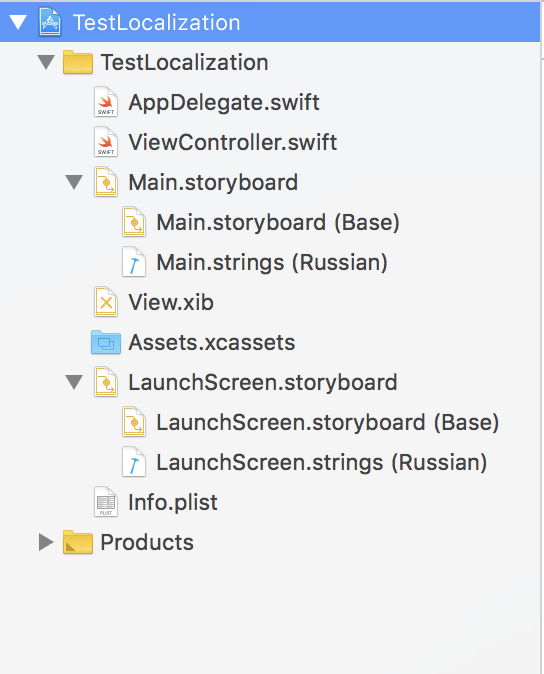
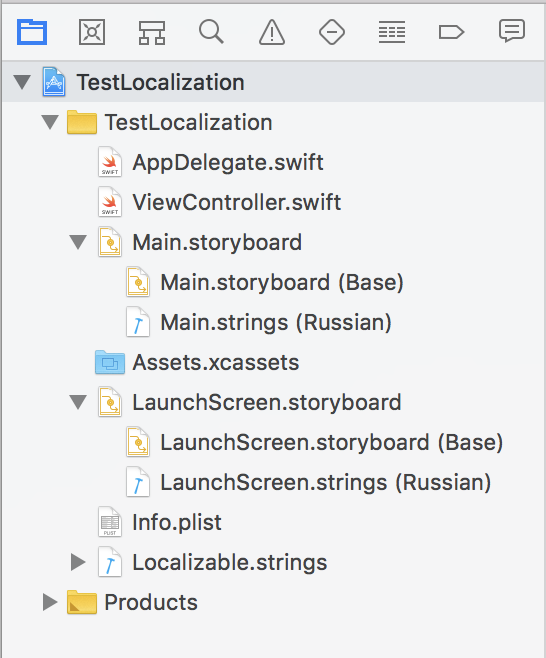
article part 1

Changed region(s): [[0.0, 0.0, 1.0, 1.0]]

diff --git a/Часть_1.md b/Часть_1.md
@@ -1,0 +1,388 @@
+#**Локализация приложений в iOS**
+##**Часть 1. Что мы имеем?** 
+***Руководство по работе с локализированными строковыми ресурсами***
+###**Введение**
+Несколько лет назад я окунулся в волшебный мир iOS разработки, который всей своей сутью сулил мне счастливое будущее в сфере IT. Однако углубляясь в особенности  платформы и среды разработки, я столкнулся со многими сложностями и неудобствами в решении, казалось бы, весьма тривиальных задач: «инновационный консерватизм» Apple порой заставляет разработчиков сильно изощряться, дабы удовлетворить необузданное «ХОЧУ» заказчика.
+
+Одной из таких проблем является вопрос локализации строковых ресурсов приложения. Именно этой проблеме мне хотелось бы посвятить несколько своих первых публикаций на просторах Хабра. 
+
+Изначально я рассчитывал уместить свои мысли в одной статье, но объем той  информации, которую хотелось бы изложить, оказался достаточно большим. В этой статье я попытаюсь раскрыть суть стандартных механизмов работы с локализованными ресурсами с акцентом на некоторые аспекты, которыми пренебрегают большинство гайдов и туториалов. Материал ориентирован прежде всего на начинающих разработчиков (или тех, кто с такими задачами не сталкивался). Для опытных девелоперов данная информация может не нести особо ценности. А вот о неудобствах и недостатках, с которыми можно столкнуться на практике, я расскажу в дальнейшем...
+
+###**Из-под коробки. Как организовано хранение строковых ресурсов в iOS-приложениях**
+
+Для начала отметим, что наличие в платформе механизмов локализации уже является огромным плюсом, т.к. избавляет программиста от дополнительной разработки и задает единый формат работы с данными. Да и зачастую, базовых механизмов хватает для реализации относительно небольших проектов.
+
+И так, какие же возможности предоставляет нам Xcode "из-под коробки"? Для начала давайте разберемся со стандартом хранения строковых ресурсов в проекте.
+
+В проектах со статическим контентом, строковые данные вполне можно хранить непосредственно в интерфейсе (файлах разметки *`.storyboard`* и *`.xib`*, которые в свою очередь являются XML-файлами визуализируемыми по средствам *Interface Builder*) или в коде. Первый подход позволяет упростить и ускорить процесс разметки экранов и отдельных отображений, т.к. разработчик может наблюдать большинство изменении без сборки приложения. Однако в этом случае не сложно нарваться на избыточности данных (если один и тот же текст используется несколькими элементами, отображениями). Второй подход как раз избавляет от проблемы избыточности данных, но приводит к необходимости заполнять экраны вручную (путем установления дополнительных *`IBOutlet`*-ов и присвоения им соответственных текстовых значений), что в свою очередь приводит к избыточности кода (разумеется, кроме тех случаев, когда текст должен устанавливаться непосредственно кодом приложения).
+
+Помимо этого Apple предоставляет стандарт файлов с расширением *`.strings`*. Данный стандарт регламентирует формат хранения строковых данных в виде ассоциативного массива (`"ключ-значение"`):
+```
+"key" = "value";
+```
+Ключ чувствителен к регистру символов, допускает использование пробелов, подчеркиваний, знаков пунктуации и специальных символов. 
+
+Важно заметить, что несмотря на незамысловатый синтаксис, *Strings*-файлы являются регулярным источников ошибок на этапе компиляции, сборки или эксплуатации приложения. Причин тому несколько. 
+
+Во-первых, ошибки в синтаксисе. Пропущенные точка с запятой, знак равенства, лишние или незаэкранированные кавычки неизбежно приведут к ошибке компилятора. Причем Xcode укажет на файл с ошибкой, но не подсветит строку, в которой что-то не так. Поиск такой опечатки может занять значительное время, особенно если файл содержит значительный объем данных.   
+
+Во-вторых, дублирование ключей. Приложение из-за него, конечно, не упадет, но пользователю могут быть отображены некорректные данные. Все дело в том, что при обращении к строке по ключу, подтягивается значение соответствующее последнему вхождению ключа в файле. 
+
+В итоге, простая конструкция требует от программиста значительной скрупулезности и внимательности при наполнении файлов данными. 
+
+~~Знающие~~ разработчики могут сразу воскликнуть: *"А как же JSON и PLIST? Чем они не угодили?"* Ну во-первых, *`JSON`* и *`PLIST`* (фактически, обыкновенный *`XML`*) являются универсальными стандартами, позволяющими хранить как строки, так и численные, логические (*`BOOL`*), бинарные данные, время и дату, а также коллекции - индексированные (*`Array`*) и ассоциативные (*`Dictionary`*) массивы. Соответственно, синтаксис этих стандартов более насыщен, а значит и накосячить в них проще. Во-вторых, скорость обработки таких файлов несколько ниже, чем Strings-файлов, опять же по причине более сложного синтаксиса. Это не говоря еще о том, что для работы с ними нужно провести целый ряд манипуляций в коде.
+
+
+
+###**Локализовали, локализовали, да не вылокализовали. Локализация пользовательского интерфейса**
+
+И так, со стандартами разобрались, разберемся теперь как это все использовать.
+
+Пойдем по-порядку. Для начала создадим простой *Single View Application* и в *Main.storyboard* на *ViewController* добавим несколько текстовых компонентов.
+
+<img src="https://github.com/nkopilovskii/NKLocalization/blob/master/article_resouces/part_1/loc_str_1.1.png?raw=true" width="50%" height="50%" align="justify">
+###
+Контент в данном случае хранится непосредственно в интерфейсе. Чтобы локализовать его необходимо сделать следующее:
+
+1)  Перейти в настройки проекта
+
+<img src="https://github.com/nkopilovskii/NKLocalization/blob/master/article_resouces/part_1/loc_str_1.2.png?raw=true" width="50%" height="50%" align="justify">
+###
+2)  Затем - из ***Target*** в ***Project***
+
+<img src="https://github.com/nkopilovskii/NKLocalization/blob/master/article_resouces/part_1/loc_str_1.3.png?raw=true" width="50%" height="50%" align="justify">
+###
+3)  Открыть вкладку ***Info***
+
+<img src="https://github.com/nkopilovskii/NKLocalization/blob/master/article_resouces/part_1/loc_str_1.4.png?raw=true" width="50%" height="50%" align="justify">
+###
+В пункте ***Localizations*** сразу видим, что у нас есть уже запись *"English - Development language"*. Это значит, что английский язык выставлен как язык разработки ( или по-умолчанию). 
+
+Давайте теперь добавим еще один язык. Для этого нажимаем "**+**" и выбираем необходимый язык (я для примера выбрал русский). Заботливый Xcode сразу предлагает нам выбрать, какие файлы необходимо локализовать для добавленного языка.
+
+<img src="https://github.com/nkopilovskii/NKLocalization/blob/master/article_resouces/part_1/loc_str_1.5.png?raw=true" width="50%" height="50%" align="justify">
+###
+Нажимаем **Finish**, смотрим, что получилось. В навигаторе по проекту возле выбранных файлов появились кнопки отображения вложенностей. Кликнув на них видим, что выбранные ранее файлы содержат в себе созданные файлы локализации.
+
+<img src="https://github.com/nkopilovskii/NKLocalization/blob/master/article_resouces/part_1/loc_str_1.6.png?raw=true" width="35%" height="35%" align="justify">
+### 
+К примеру,  ***`Main.storyboard (Base)`*** - это созданный по умолчанию файл разметки интерфейса на базовом языке разработки, а при формировании локализации к нему в пару был создан ассоциированный ***`Main.strings (Russian)`*** - файл строк для русской локализации. Открыв его можно увидеть следующее:
+
+```
+/* Class = "UILabel"; text = "Label"; ObjectID = "tQe-tG-eeo"; */
+"tQe-tG-eeo.text" = "Label";
+
+/* Class = "UITextField"; placeholder = "TextField"; ObjectID = "cpp-y2-Z0N"; */
+"cpp-y2-Z0N.placeholder" = "TextField";
+
+/* Class = "UIButton"; normalTitle = "Button"; ObjectID = "EKl-Rz-Dc2"; */
+"EKl-Rz-Dc2.normalTitle" = "Button";
+```
+
+Здесь, в целом, все просто, но все же для пущей ясности рассмотрим подробнее, обратив внимание на комментарии, сгенерированные заботливым Xcode-ом:  
+
+```
+/* Class = "UILabel"; text = "Label"; ObjectID = "tQe-tG-eeo"; */
+"tQe-tG-eeo.text" = "Label";
+```
+
+Вот экземпляр класса ***`UILabel`*** со значением ***`"Label"`*** для параметра ***`text`***. ***`ObjectID`*** - идентификатор объекта в файле разметки,- это уникальная строка, присваиваемая любому компоненту в момент его помещение на *`Storyboard/Xib`*. Именно из *`ObjectID`* и имени параметра объекта (в данном случае *`text`*) формируется ключ, а саму запись можно формально трактовать так:
+
+Параметру "text" объекта "tQe-tG-eeo" присвоить значение "Label".
+
+В данной записи изменению подлежит только "*значение*". Заменим "*Label*" на "*Надпись*".   Аналогично поступим и с другими объектами. 
+
+```
+/* Class = "UILabel"; text = "Label"; ObjectID = "tQe-tG-eeo"; */
+"tQe-tG-eeo.text" = "Надпись";
+/* Class = "UITextField"; placeholder = "TextField"; ObjectID = "cpp-y2-Z0N"; */
+"cpp-y2-Z0N.placeholder" = "Текстовое поле"; /* Class = "UIButton"; normalTitle = "Button"; ObjectID = "EKl-Rz-Dc2"; */
+"EKl-Rz-Dc2.normalTitle" = "Кнопка";
+```
+
+Запускаем наше приложение.
+
+<img src="https://github.com/nkopilovskii/NKLocalization/blob/master/article_resouces/part_1/loc_str_1.7.png?raw=true" width="50%" height="50%" align="justify">
+### 
+
+Но что же мы видим? Приложение использует базовую локализацию. Как же проверить правильно ли мы произвели перевод?
+
+Тут стоит сделать небольшое отступление и копнуть немного в сторону особенностей iOS платформы и структуры приложения.
+
+Для начала рассмотрим изменение структуры проекта в процессе добавления локализации. Вот так выглядит каталог проекта до добавления русской локализации: 
+
+<img src="https://github.com/nkopilovskii/NKLocalization/blob/master/article_resouces/part_1/loc_str_1.8.png?raw=true" width="50%" height="50%" align="justify">
+### 
+
+А вот так после:
+
+<img src="https://github.com/nkopilovskii/NKLocalization/blob/master/article_resouces/part_1/loc_str_1.9.png?raw=true" width="50%" height="50%" align="justify">
+### 
+
+Как мы видим, Xcode создал новый каталог *`ru.lproj`*, в которую поместил созданные локализованные строки. 
+
+<img src="https://github.com/nkopilovskii/NKLocalization/blob/master/article_resouces/part_1/loc_str_1.10.png?raw=true" width="50%" height="50%" align="justify">
+### 
+
+Причем тут структура Xcode проекта к готовому iOS приложению? А при том, что это помогает лучше понять особенности платформы, а также принципы распределения и хранения ресурсов непосредственно в готовом приложении. Суть в том, что при сборке Xcode проекта, помимо формирования исполнительного файла, среда переносит ресурсы (файлы разметки интерфейса *Storyboard/Xib*, изображения, файлы строк и прочее) в готовое приложение сохраняя иерархию заданную на этапе разработки. 
+
+Для работы с этой иерархией Apple предоставляет класс *`Bundle(NSBundle)`* ([вольный перевод](https://developer.apple.com/documentation/foundation/bundle?changes=_2)):
+
+>Apple использует **`Bundle`** для предоставления доступа к приложениям, фреймворкам, плагинам и многим другим типам контента. *`Bundle`*-ы организуют ресурсы в четко определенные подкаталоги, а структуры bundle-ов различаются в зависимости от платформы и типа. Используя *`bundle`*, вы можете получить доступ к ресурсам пакета, не зная его структуры. *`Bundle`* представляет собой единый интерфейс для поиска элементов, с учетом структуры пакета, потребностей пользователя, доступных локализаций и других соответствующих факторов. 
+>**Поиск и открытие ресурса**
+>Прежде чем начать работу с ресурсом, необходимо указать его *`bundle`*. Класс **`Bundle`** имеет множество конструкторов, но чаще всего используется **[main](https://developer.apple.com/documentation/foundation/bundle/1410786-main?changes=_2)**. *`Bundle.main`* предоставляет путь к каталогам, содержащим текущий исполняемый код. Таким образом, *`Bundle.main`* предоставляет доступ к ресурсам, используемым текущим приложением. 
+
+Рассмотрим структуру *`Bundle.main`* используя класс ***`FileManager`***:
+
+<img src="https://github.com/nkopilovskii/NKLocalization/blob/master/article_resouces/part_1/loc_str_1.12.png?raw=true" width="65%" height="65%" align="justify">
+### 
+
+Исходя из вышесказанного можем сделать вывод: при загрузке приложения формируется его *`Bundle.main`*, анализируется текущая локализация устройства (язык системы), локализации приложения и локализованные ресурсы. Затем приложение выбирает из всех доступных локализаций ту, которая соответствует текущему языку системы и подтягивает соответствующие локализованные ресурсы. Если же совпадений нет - используются ресурсы из каталога по умолчанию (в нашем случае английскую локализацию, т.к. английский язык был определен как язык разработки, и необходимостью дополнительной локализации ресурсов можно пренебречь). Если сменить язык устройства на русский и перезапустить приложение, то и интерфейс уже будет уже соответствовать русской локализации.
+
+<img src="https://github.com/nkopilovskii/NKLocalization/blob/master/article_resouces/part_1/loc_str_1.13.png?raw=true" width="50%" height="50%" align="justify">
+### 
+
+Но прежде чем закрыть тему локализации пользовательского интерфейса через *Interface Builder*, стоит отметить еще один примечательный способ. При создании файлов локализации (путем добавления нового языка в проект или в инспекторе локализованного файла) нетрудно заметить, что Xcode предоставляет возможность выбрать тип создаваемого файла: 
+
+<img src="https://github.com/nkopilovskii/NKLocalization/blob/master/article_resouces/part_1/loc_str_1.14.png?raw=true" width="35%" height="35%" align="justify">
+### 
+
+Вместо файла строк можно запросто создать локализованный *`Storyboard/Xib`*, который будет сохранять всю разметку базового файла. Огромным плюсом данного подхода является то, что разработчик может сразу увидеть как будет отображаться контент на том или ином языке и сразу подкорректировать разметку экрана, особенно если объем текста  разниться, или используется другое направление текста (например, в арабском языке, иврите) и так далее. Но в то же время создание дополнительных *Storyboard/Xib* файлов значительно увеличивает размер самого приложения (все таки строковые файлы занимают гораздо меньше места). 
+
+По этому, выбирая тот или иной метод локализации интерфейса, стоит учитывать, какой подход будет более целесообразен и практичен в конкретной ситуации.
+
+
+###**Do It Yourself. Работа с локализованными строковыми ресурсами в коде**
+
+Надеюсь, со статическим контентом все более-менее понятно. Но как быть с текстом, который задается непосредственно в коде? 
+
+Разработчики операционной системы iOS и об этом позаботились.   
+
+Для работы с локализованными текстовыми ресурсами фреймворк Foundation предоставляет семейство методов ***`NSLocalizedStrings`*** в ***Swift***
+
+```swift
+NSLocalizedString(_ key: String, comment: String)
+NSLocalizedString(_ key: String, tableName: String?, bundle: Bundle, value: String, comment: String)
+```
+
+и макросов в ***Objective-C***
+
+```objectivec
+NSLocalizedString(key, comment)
+NSLocalizedStringFromTable(key, tbl, comment)
+NSLocalizedStringFromTableInBundle(key, tbl, bundle, comment)
+NSLocalizedStringWithDefaultValue(key, tbl, bundle, val, comment)
+```
+
+Начнем с очевидного. Параметр ***`key`*** - ключ строки в Strings-файле; ***`val`*** (default value) - значение по умолчанию, которое используется в случае отсутствия указанного ключа в файле; ***`comment`*** - (менее очевидный) краткое описание локализируемой строки (по сути не несет в себе полезного функционала и предназначен для пояснения цели использования конкретной строки). 
+
+Что касается параметров *`tableName`* (*`tbl`*) и *`bunble`*, то на их рассмотреть стоит более подробно.
+
+***`tableName`*** (***`tbl`***) - это имя String-файла (честно говоря, не знаю почему Apple называют его таблицей), в котором находиться необходимая нам строка по указанному ключу; при его передаче расширение *`.string`* не указывается. Возможность навигации между таблицами позволяет не хранить строковые ресурсы в одном файле, а распределять их по собственному усмотрению. Это позволяет избавится от перегруженности файлов, упрощает их редактирование, минимизирует шанс появления ошибок.
+
+Параметр ***`bundle`*** расширяет возможности навигации по ресурсам еще больше. Как говорилось ранее, *bundle* - это механизм доступа к ресурсам приложения, то есть мы можем самостоятельно определять источник ресурсов. 
+
+Немного подробнее. Перейдем непосредственно в ***Foundation*** и рассмотрим объявление методов (макросов) для более ясной картины, т.к. преимущественное большенство туториалов попросту игнорирует этот момент. Фреймворк на *Swift* не особо информативен:
+
+```swift
+/// Returns a localized string, using the main bundle if one is not specified.
+public func NSLocalizedString(_ key: String, tableName: String? = default, bundle: Bundle = default, value: String = default, comment: String) -> String 
+``` 
+
+*"Главный bundle возвращает локализированную строку"* - все что мы имеем. В случае с *Objective-C* дело обстоит уже немного иначе
+
+```objectivec
+#define NSLocalizedString(key, comment) \
+[NSBundle.mainBundle localizedStringForKey:(key) value:@"" table:nil]
+#define NSLocalizedStringFromTable(key, tbl, comment) \
+[NSBundle.mainBundle localizedStringForKey:(key) value:@"" table:(tbl)]
+#define NSLocalizedStringFromTableInBundle(key, tbl, bundle, comment) \
+[bundle localizedStringForKey:(key) value:@"" table:(tbl)]
+#define NSLocalizedStringWithDefaultValue(key, tbl, bundle, val, comment) \
+[bundle localizedStringForKey:(key) value:(val) table:(tbl)]
+```
+
+Здесь уже наглядно видно, что с файлами строковых ресурсов работает никто иной, как ***`bundle`*** (в первых двух случаях *`mainBundle`*) - так же как и в случае с локализацией интерфейса. Конечно, я мог бы сразу об этом сказать, рассматривая класс *`Bundle`* (*`NSBundle`*) в предыдущем пункте, но на тот момент эта информация не несла особой практической ценности. А вот в контексте работы со строками в коде об этом нельзя не сказать. По сути, глобальные функции, предоставленные ***Foundation***, всего навсего обертки над стандартными методами bundle, основная задача которых сделать код более лаконичным и безопасным. Никто не запрещает инициализировать *`bundle`* вручную и непосредственно от его имени обращаться к ресурсам, но таким образом появляется (пускай и очень-очень маленькая) вероятность образования циклических ссылок и утечек памяти.
+
+Далее в примерах будет описана работа именно с глобальными функциями и макросами.
+
+Рассмотрим как это все работает.  
+Для начала создадим String-файл, который будет содержать наши строковые ресурсы. Назовем его Localizable.strings* и добавим в него
+
+```
+"testKey" = "testValue";
+```
+
+(* Локализация String-файлов осуществляется абсолютно точно так же, как и *Storyboard/Xib*, поэтому описывать этот процесс я не буду. Заменим в файле русской локализации "*testValue*" на "*тестовое значение*".)
+
+**Важно!** В iOS файл с этим именем является файлом строковых ресурсов по умолчанию, т.е. если не указывать имя таблицы *`tableName`* (*`tbl`*), приложение автоматически будет стучаться в ***`Localizable.strings`***.
+
+Добавим в наш проект следующий код
+
+```swift
+//Swift
+print("String for 'testKey': " + NSLocalizedString("testKey", comment: ""))
+```
+
+```objectivec
+//Objective-C
+NSLog(@"String for 'testKey': %@", NSLocalizedString(@"testKey", @""));
+```
+
+и запустим проект. После выполнения кода, в консоле появится строка
+
+```
+String for 'testKey': testValue
+```
+
+Все работает верно! 
+
+Аналогично с примером локализации интерфейса, сменим локализацию и запустим приложение. Результатом выполнения кода будет 
+
+```
+String for 'testKey': тестовое значение
+```  
+
+Теперь попробуем получить значение по ключу, которого в файле *`Localizable.strings`* нет: 
+
+```swift  
+//Swift
+print("String for 'unknownKey': " + NSLocalizedString("unknownKey", comment: ""))
+```
+
+```objectivec
+//Objective-C
+NSLog(@"String for 'unknownKey': %@", NSLocalizedString(@"unknownKey", @""));
+```
+
+Результатом выполнения такого кода будет
+
+```
+String for 'unknownKey': unknownKey
+```
+
+Поскольку ключа в файле нет, метод возвращает в качестве результата сам ключ. Если такой результат является неприемлемым, то лучше воспользоваться методом
+
+```swift
+//Swift
+print("String for 'testKey': " + NSLocalizedString("unknownKey", tableName: nil, bundle: Bundle.main, value: "noValue", comment: ""))
+```
+
+```objectivec
+//Objective-C
+NSLog(@"String for 'testKey': %@", NSLocalizedStringWithDefaultValue(@"unknownKey", nil, NSBundle.mainBundle, @"noValue", @""));
+```
+
+где есть параметр ***`value`*** (*значение по умолчанию*). Но в данном случае обязательно нужно указать источник ресурсов - *`bundle`*. 
+
+Локализированные строки поддерживают механизм интерполяции, аналогично стандартным строкам iOS. Для этого в файл строк необходимо добавить запись с использованием строчных литералов (*`%@`*, *`%li`*, *`%f`* и т.д.), например: 
+
+```
+"stringWithArgs" = "String with %@: %li, %f";
+```
+
+Для вывода такой строки необходимо добавить код вида
+
+```swift
+//Swift
+print(String(format: NSLocalizedString("stringWithArgs", comment: ""), "some", 123, 123.098 ))
+```  
+
+```objectivec
+//Objective-C
+NSLog(@"%@", [NSString stringWithFormat: NSLocalizedString(@"stringWithArgs", @""), @"some", 123, 123.098]);
+```
+
+Но при использовании таких конструкций нужно быть очень внимательным! Дело в том, что iOS строго отслеживает количество, порядок аргументов, соответствие их типов указанным литералам. Так, например, если в качестве второго аргумента вместо целочисленного значения подставить строку
+
+```swift
+//Swift
+print(String(format: NSLocalizedString("stringWithArgs", comment: ""), "some", "123", 123.098 ))
+```  
+
+```objectivec
+//Objective-C
+NSLog(@"%@", [NSString stringWithFormat: NSLocalizedString(@"stringWithArgs", @""), @"some", @"123", 123.098]);
+```
+
+то приложение подставит в месте несоответствия целочисленный код строки ***"123"*** 
+
+```
+"String with some: 4307341664, 123.089000"
+```
+
+Если пропустить его, то получим 
+
+```
+"String with some: 0, 123.089000"
+```
+
+А вот если пропустить в перечне аргументов объект соответствующий ***`%@`***
+
+```swift
+//Swift
+print(String(format: NSLocalizedString("stringWithArgs", comment: ""), "123", 123.098 ))
+```  
+
+```objectivec
+//Objective-C
+NSLog(@"%@", [NSString stringWithFormat: NSLocalizedString(@"stringWithArgs", @""),  @"123", 123.098]);
+```
+
+то приложение просто напросто упадет в момент выполнения кода.
+
+
+###**Push me, baby! Локализация уведомлений**
+
+Еще одной важной задачей в вопросе работы с локализованными строковыми ресурсами, о которой мне бы хотелось коротко рассказать, является задача локализации уведомлений. Суть в том, что большинство туториалов (как по *`Push Notifications`*, так и по *`Localizable Strings`*) зачастую пренебрегают данной проблемой, а подобные задачи не такая уж и редкость. Поэтому, столкнувшись с подобным впервые, у разработчика может возникнуть резонный вопрос: *возможно ли это в принципе?* Механизм работы *`Apple Push Notification Service`* здесь я рассматривать не буду, тем более, что начиная с iOS 10.0 Push-ы и локальные уведомления реализуются через один и тот же фреймворк - **`UserNotifications`**. 
+
+С подобной задачей приходиться сталкиваться при разработке мультиязычных клиент-серверных приложений. Когда такая задача впервые встала передо мной, первое, что пришло пришло мне в голову, это скинуть проблему локализации сообщений на сторону сервера. Идея была предельно проста: приложение при запуске отправляет на *backend* текущую локализацию, а сервер при отправке *push*-а подбирает соответсвующее сообщение. Но сразу назрела проблема: если локализация устройства поменялась, а приложение не было перезапущено (не обновило данные в базе), то сервер отправлял текст соответствующий последней "зарегестрированной" локализации. А если приложение установлено сразу на нескольких устройствах с разными системными языками, то вся реализация работала бы как черт знает что. Поскольку такое решение мне сразу показалось дичайшим костылем, я тотчас же начал искать адекватные решения (забавно, но на многих форумах "разработчики" советовали локализировать пуши именно на *backend*-е).
+
+Правильное решение оказалось до ужаса простым, хотя и не совсем очевидным. Вместо стандартного *JSON* отправляемого сервером на *APNS*
+
+```
+"aps" : {
+"alert" : {
+"body" : "some message";
+};
+};
+```
+
+необходимо отправлять *JSON* вида
+
+```
+"aps" : {
+"alert" : {
+"loc-key" : "message localized key";
+};
+};
+```
+
+где по ключу ***`loc-key`*** передается ключ локализированной строки из файла ***`Localizable.strings`***. Соответственно сообщение push-а отображается в соотвествии с текущей локализацией устройства.
+
+Аналогичным образом работает и механизм интерполяции локализированных строк в *Push*-уведомлениях:
+
+```
+"aps" : {
+"alert" : {
+"loc-key" : "message localized key";
+"loc-args" : [ "First argument", "Second argument" ];
+};
+};
+```
+
+По ключу ***`loc-args`*** передается массив аргументов, которые необходимо внедрить в локализированный текст уведомления.
+
+
+###**Подытожим...**
+
+И так, что же имеем в итоге:
+-   стандарт хранения строковых данных в специализированных файлах ***`.string`*** с простым и доступным синтаксисом;
+-   возможность локализации интерфейса без дополнительных манипуляций в коде;
+-   быстрый доступ к локализованным ресурсам из кода;
+-   автоматическая генерация файлов локализации и структурирование ресурсов  директориц проекта (приложения) средствами Xcode;
+-   возможность локализации текста уведомлений.
+
+В общем, Xcode предоставляет разработчикам достаточно простой и гибкий механизм локализации строковых ресурсов приложения, достаточный для реализации простых задач локализации в относительно небольших проектах.
+
+О подводных камнях описанного механизма и методах их обхода я постараюсь рассказать в следующей статье.
